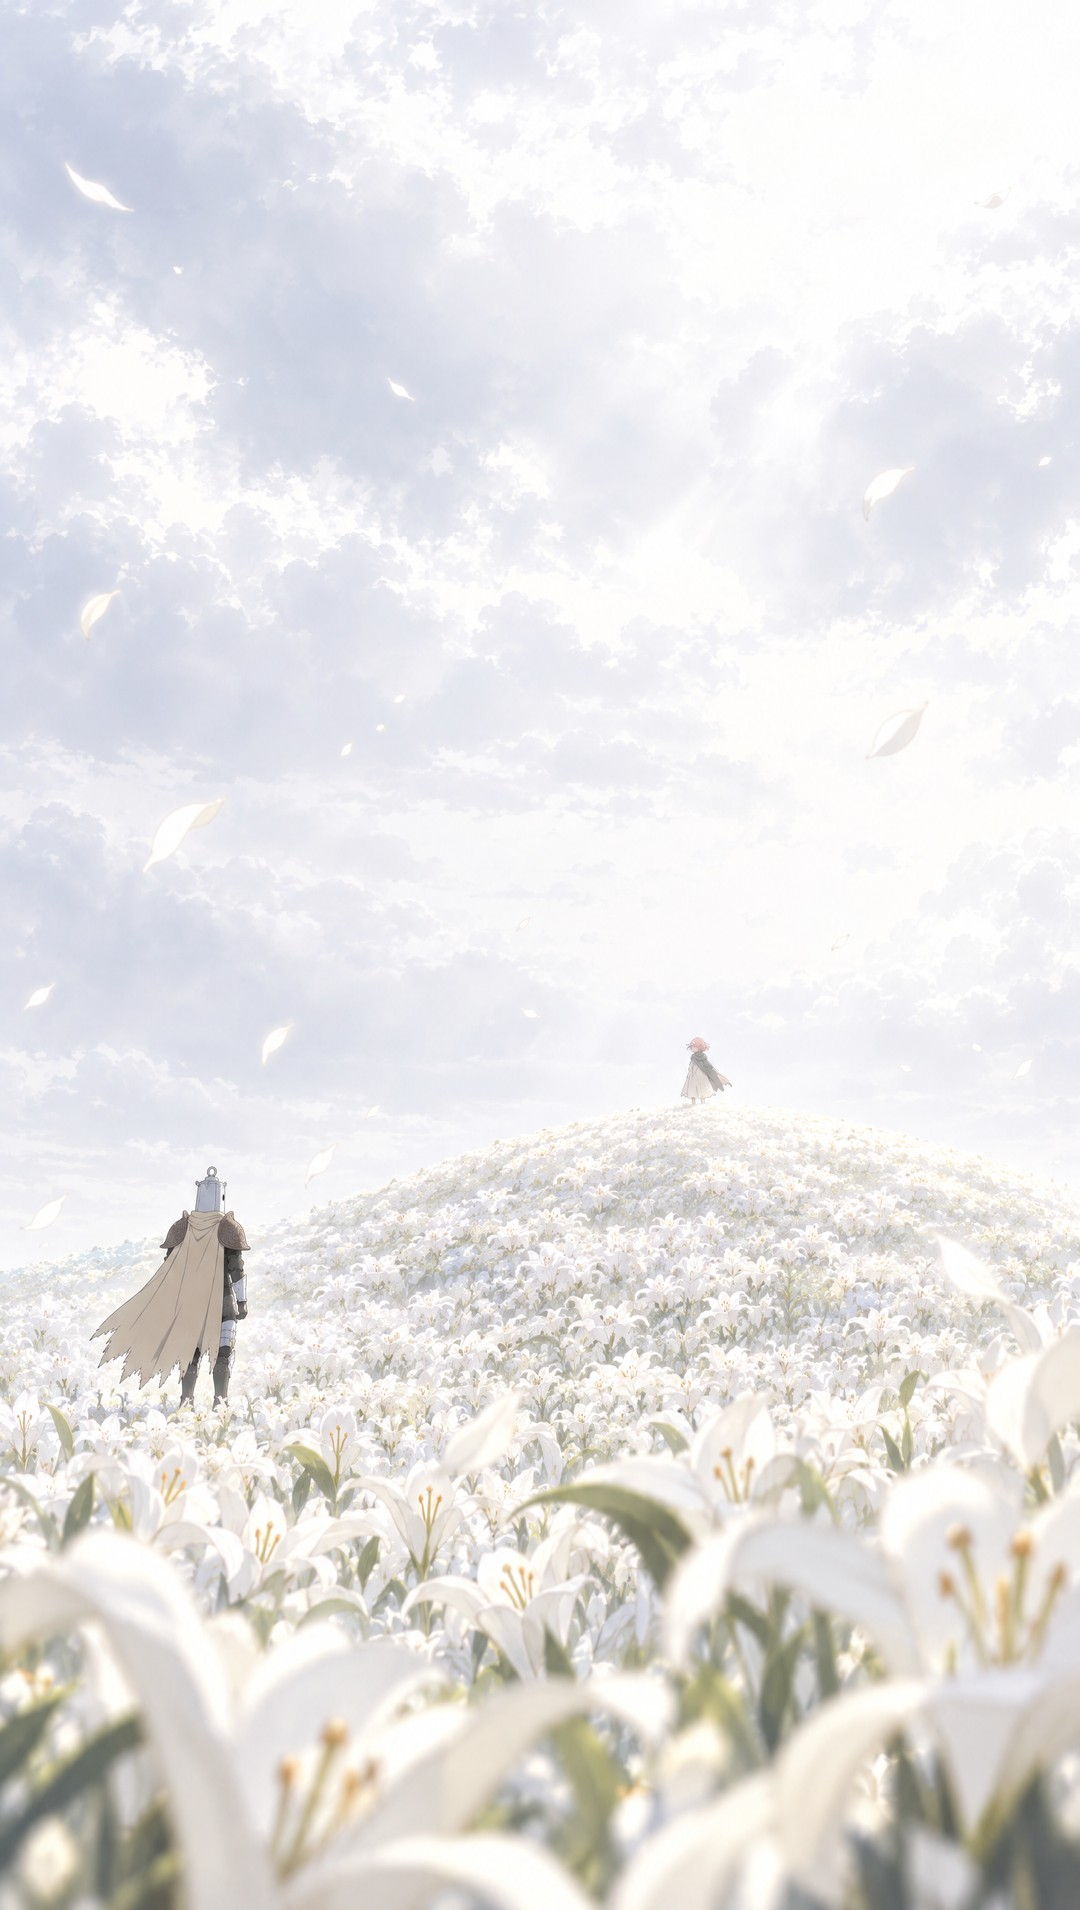
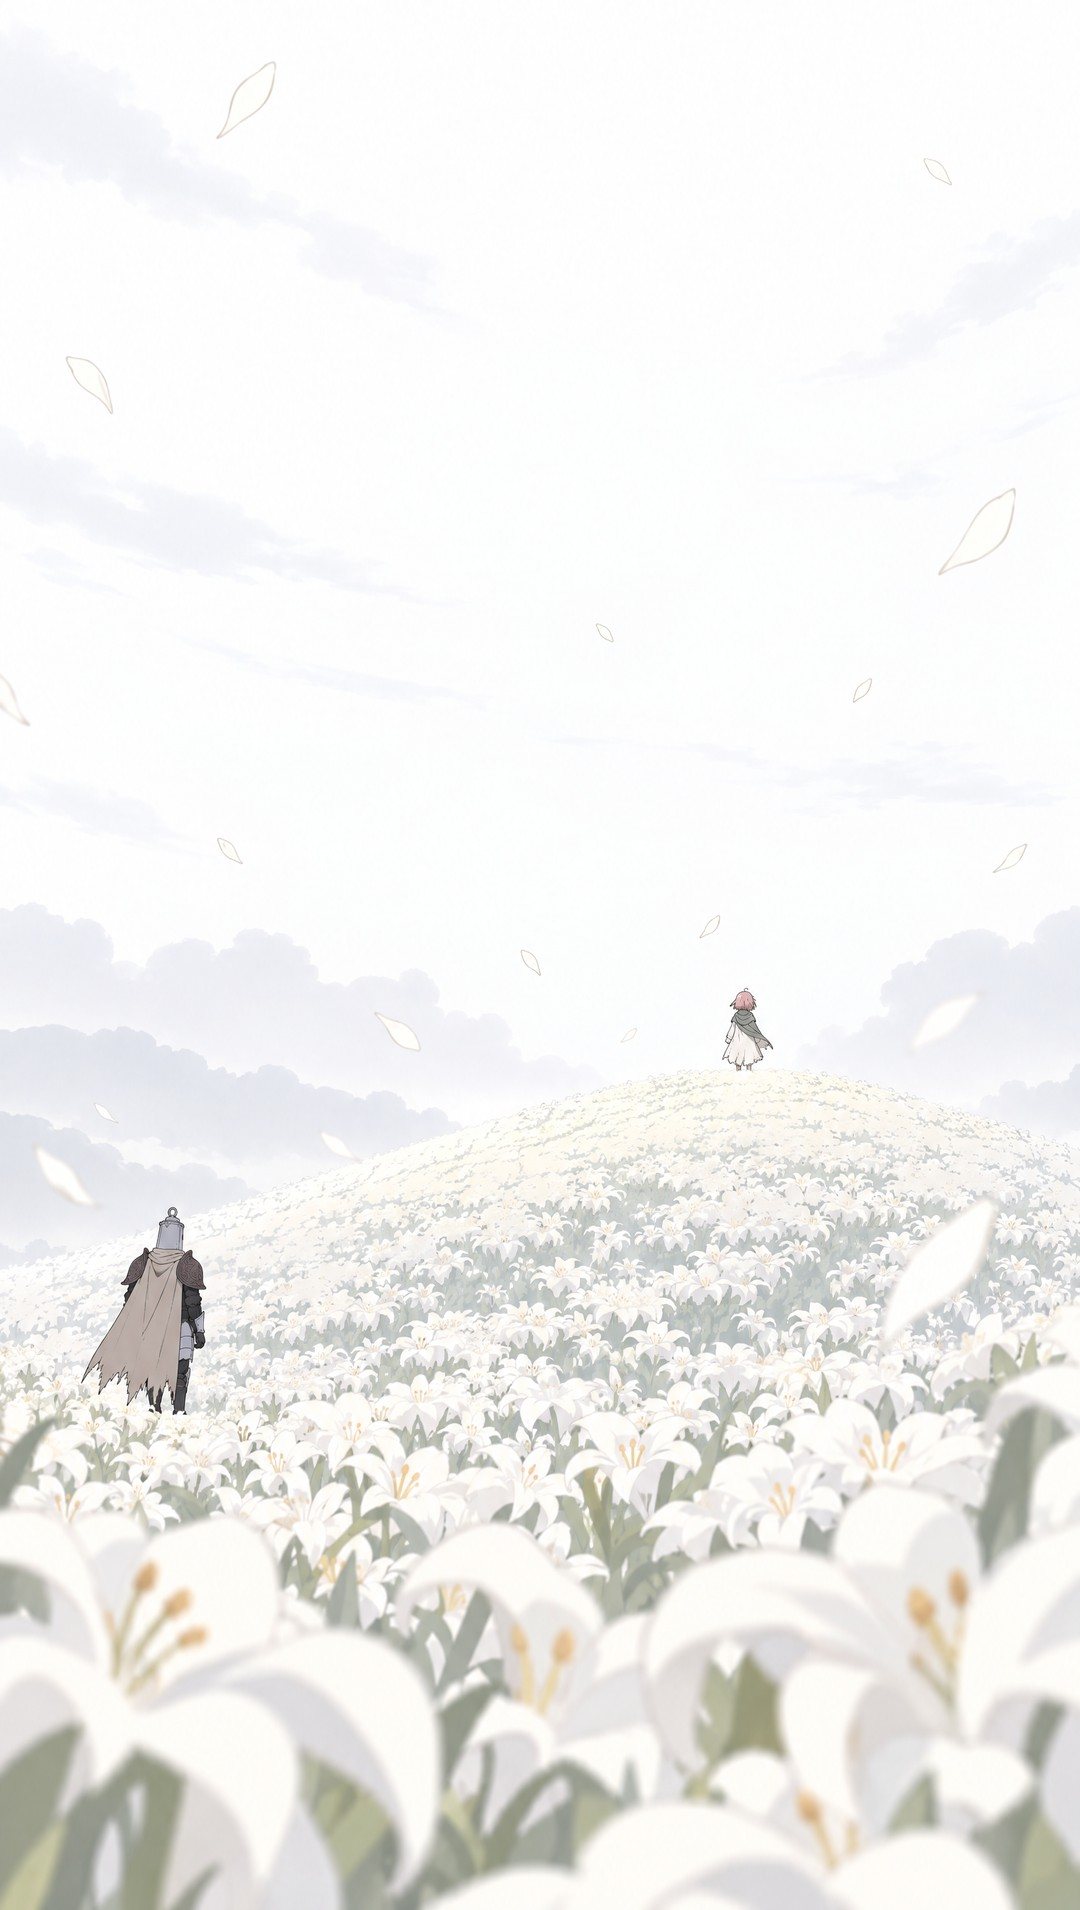
Flatten the strip into a webtoon rendering: bold fills, one shadow tone, ink lines
Style bible v3 asks for large flat colour shapes, hard-edged cel shading
with one shadow and one highlight per surface, visible digital inking and
simplified backgrounds, and tells the model that the reference images give
design, framing and palette only, never their rendering. All ten panels are
regenerated with GPT Image 2.5 Sunburst; the rendered pass stays in
panels-v2-sunburst-rendered for comparison.

Claude-Session: https://claude.ai/code/session_01QmqKzLipBN6ZMd7a4DoH24

diff --git a/lib/webtoon/sources/ep1-opening.images.ts b/lib/webtoon/sources/ep1-opening.images.ts
@@ -7,8 +7,8 @@ export const EP1_OPENING_IMAGES: Record<string, PanelImage> = {
     "width": 1080,
     "height": 1350,
     "model": "gpt-image-2.5-sunburst",
-    "job_id": "974cf7e1-8d33-4ad8-aba7-f399b05e7f7c",
-    "generated_at": "2026-09-19T16:55:08Z",
+    "job_id": "b240115c-b6aa-4ab2-a124-aa27f4a32ea2",
+    "generated_at": "2026-09-19T17:11:01Z",
     "status": "generated"
   },
   "p02": {
@@ -16,8 +16,8 @@ export const EP1_OPENING_IMAGES: Record<string, PanelImage> = {
     "width": 1080,
     "height": 717,
     "model": "gpt-image-2.5-sunburst",
-    "job_id": "ad901fbd-3ec8-4899-8916-746ec233eb58",
-    "generated_at": "2026-09-19T16:55:08Z",
+    "job_id": "66eae535-23ee-455e-8182-541458d35bac",
+    "generated_at": "2026-09-19T17:11:01Z",
     "status": "generated"
   },
   "p03": {
@@ -25,8 +25,8 @@ export const EP1_OPENING_IMAGES: Record<string, PanelImage> = {
     "width": 1080,
     "height": 1910,
     "model": "gpt-image-2.5-sunburst",
-    "job_id": "760c4420-2eda-48cb-9d96-bf71ec2e7f0c",
-    "generated_at": "2026-09-19T16:59:44Z",
+    "job_id": "1fcf705d-8d5d-471c-8ad6-988e805ac77a",
+    "generated_at": "2026-09-19T17:11:01Z",
     "status": "generated"
   },
   "p04": {
@@ -34,8 +34,8 @@ export const EP1_OPENING_IMAGES: Record<string, PanelImage> = {
     "width": 1080,
     "height": 1350,
     "model": "gpt-image-2.5-sunburst",
-    "job_id": "54e5db68-20d9-47d1-9c11-a65dc285cd96",
-    "generated_at": "2026-09-19T16:59:45Z",
+    "job_id": "a10aa807-5c5a-417c-b20e-02241a02ee56",
+    "generated_at": "2026-09-19T17:11:01Z",
     "status": "generated"
   },
   "p05": {
@@ -43,8 +43,8 @@ export const EP1_OPENING_IMAGES: Record<string, PanelImage> = {
     "width": 1080,
     "height": 611,
     "model": "gpt-image-2.5-sunburst",
-    "job_id": "06e9eb84-f96d-4f90-94bb-5d8f95627ed2",
-    "generated_at": "2026-09-19T16:59:45Z",
+    "job_id": "935471a3-abee-40c0-9411-8ac28d172c72",
+    "generated_at": "2026-09-19T17:11:01Z",
     "status": "generated"
   },
   "p06": {
@@ -52,8 +52,8 @@ export const EP1_OPENING_IMAGES: Record<string, PanelImage> = {
     "width": 1080,
     "height": 1910,
     "model": "gpt-image-2.5-sunburst",
-    "job_id": "792055a5-a797-4b9d-ae4e-ee9be08cf6af",
-    "generated_at": "2026-09-19T16:59:46Z",
+    "job_id": "6238035f-33ea-4ed7-86ca-36be285b6c6a",
+    "generated_at": "2026-09-19T17:12:22Z",
     "status": "generated"
   },
   "p07": {
@@ -61,8 +61,8 @@ export const EP1_OPENING_IMAGES: Record<string, PanelImage> = {
     "width": 1080,
     "height": 1350,
     "model": "gpt-image-2.5-sunburst",
-    "job_id": "a16f70ab-96fb-4d3e-b827-e9a08e623ee3",
-    "generated_at": "2026-09-19T16:59:45Z",
+    "job_id": "c6a8ea5b-6603-4146-810a-eb86fc577754",
+    "generated_at": "2026-09-19T17:12:22Z",
     "status": "generated"
   },
   "p08": {
@@ -70,8 +70,8 @@ export const EP1_OPENING_IMAGES: Record<string, PanelImage> = {
     "width": 1080,
     "height": 1910,
     "model": "gpt-image-2.5-sunburst",
-    "job_id": "ee85bc20-182b-4594-b131-ae217e91cd24",
-    "generated_at": "2026-09-19T16:55:08Z",
+    "job_id": "601a70dc-5cd1-4ff3-a264-98ca4d7f1612",
+    "generated_at": "2026-09-19T17:12:22Z",
     "status": "generated"
   },
   "p09": {
@@ -79,8 +79,8 @@ export const EP1_OPENING_IMAGES: Record<string, PanelImage> = {
     "width": 1080,
     "height": 717,
     "model": "gpt-image-2.5-sunburst",
-    "job_id": "09923a8f-b49f-46e7-beca-b342ce7aab42",
-    "generated_at": "2026-09-19T16:55:08Z",
+    "job_id": "48759c2b-30b1-4a65-b2cc-6a07fef944bf",
+    "generated_at": "2026-09-19T17:12:22Z",
     "status": "generated"
   },
   "p10": {
@@ -88,8 +88,8 @@ export const EP1_OPENING_IMAGES: Record<string, PanelImage> = {
     "width": 1080,
     "height": 1350,
     "model": "gpt-image-2.5-sunburst",
-    "job_id": "e0d58e5f-3af3-4e82-a05a-7d1562d64232",
-    "generated_at": "2026-09-19T16:55:08Z",
+    "job_id": "7205772a-189e-43a5-b431-61956090a0ff",
+    "generated_at": "2026-09-19T17:12:22Z",
     "status": "generated"
   }
 };

diff --git a/lib/webtoon/style-bible.ts b/lib/webtoon/style-bible.ts
@@ -21,12 +21,14 @@ export type StyleBible = {
 };
 
 export const STYLE_BIBLE: StyleBible = {
-  id: "lost-garden-webtoon-v2",
+  id: "lost-garden-webtoon-v3",
   base:
-    "Lost Garden, an original dark fantasy anime by Frank Houbre, drawn as a premium full-colour Korean webtoon panel. Keep the identity of the series exactly: its characters, its poetic dark fantasy mood, its deep blue and cyan palette, its strong readable silhouettes, its mist and floating particles. Render it the webtoon way: clean confident line art with varied line weight, soft cel shading with smooth airbrushed gradients on skin and cloth, luminous painterly backgrounds slightly softer than the figures, crisp edges on the characters, generous negative space, composition built for a phone screen.",
+    "Lost Garden, an original dark fantasy anime by Frank Houbre, redrawn as a Korean webtoon (manhwa) panel. Keep the identity of the series: the same characters and designs, the poetic dark fantasy mood, the deep blue and cyan palette, the strong readable silhouettes. Draw it like a webtoon artist inks and colours a weekly episode: bold flat colour fills (large flat shapes of colour), hard-edged cel shading with only one shadow tone and one highlight tone per surface, clean confident ink outlines of varied weight around characters and props, simplified backgrounds built from a few big flat shapes and soft gradients, mist and light as simple flat or gradient shapes, very few small details, plenty of empty space. It must look hand-drawn and coloured digitally, graphic and readable at phone size.",
   rendering: [
     "Single illustration, one scene only, no collage, no split screen, no page layout, no multiple panels.",
-    "Drawn 2D webtoon illustration, not 3D render, not photograph, not live action, not flat vector.",
+    "Flat webtoon rendering: no painterly brushwork, no photographic lighting, no fine texture, no film grain, no micro-detail, no realistic materials; surfaces are flat colour with one hard shadow.",
+    "Line art is visible and clean, like digital inking; colours stay inside the lines; backgrounds are simpler and softer than the characters.",
+    "The reference images give the character designs, the framing and the palette only; do not copy their rendering, their detail level or their lighting, redraw them flat.",
     "Composition designed for a vertical webtoon panel read on a phone: the subject stays readable at small size, the eye reads top to bottom.",
     "The artwork fills the whole image edge to edge with no frame, border, margin or vignette drawn into it.",
   ],
@@ -45,5 +47,6 @@ export const STYLE_BIBLE: StyleBible = {
     "No glowing eyes on Lanterne, no sword, no shield, no weapon, no wings, no cape colour other than beige.",
     "No extra characters, animals or creatures unless named in the prompt.",
     "No modern objects, no photographic realism, no 3D CGI look, no chibi proportions.",
+    "No painterly or semi-realistic rendering, no dense detail, no complex textures, no volumetric rendering: flat colours and clean lines only.",
   ],
 };

diff --git a/docs/webtoon-pipeline.md b/docs/webtoon-pipeline.md
@@ -54,4 +54,4 @@ Le frontend ne décide rien : il empile ce que le moteur a décidé. La distance
 - Les 30 s de l'épisode 1 font onze plans (coupes à 4.4, 6.3, 11.2, 12.9, 13.9, 16.9, 20.6, 22.6, 25.5, 27.6 s) et une seule réplique, « Find me. » à 17.9 s.
 - Dix cases, 16 028 px de haut, cinq beats. Le noir du film (20.6 à 22.6 s) n'est pas une case : c'est un gap de 1 400 px et le changement de fond.
 - Aucune case n'invente d'action : chaque case est marquée `direct` et pointe le plan dont elle vient.
-- Première passe : Nano Banana (via Higgsfield). Seconde passe, celle qui est en ligne : GPT Image 2.5 Sunburst, style webtoon, fiches personnages jointes en premier sur chaque case. Les cases de la première passe restent dans `public/webtoon/ep1-opening/panels-v1-nano-banana/` pour comparaison.
+- Trois passes : Nano Banana (`panels-v1-nano-banana/`), GPT Image 2.5 Sunburst en rendu détaillé (`panels-v2-sunburst-rendered/`), puis GPT Image 2.5 Sunburst en rendu webtoon à aplats (bible v3, `panels/`, celle qui est en ligne). Fiches personnages jointes en premier sur chaque case à chaque passe.
